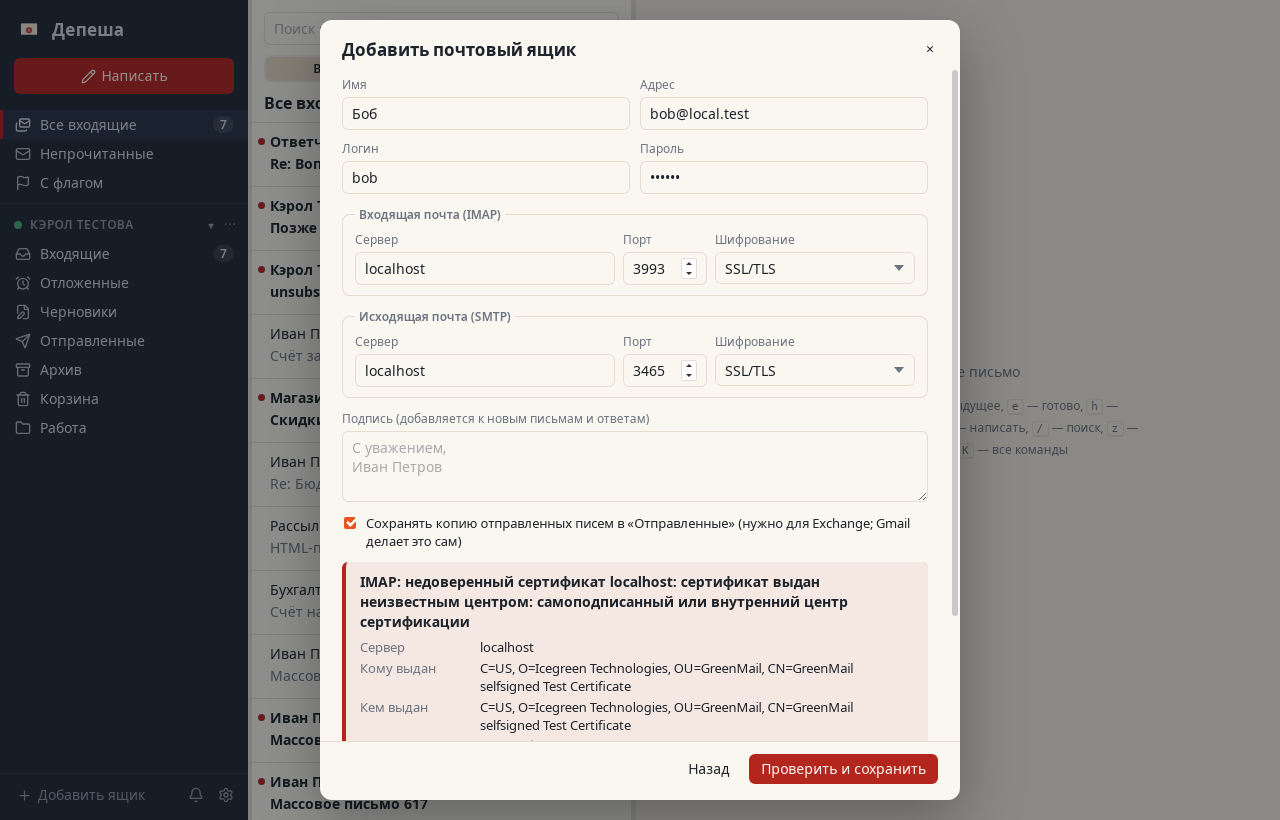
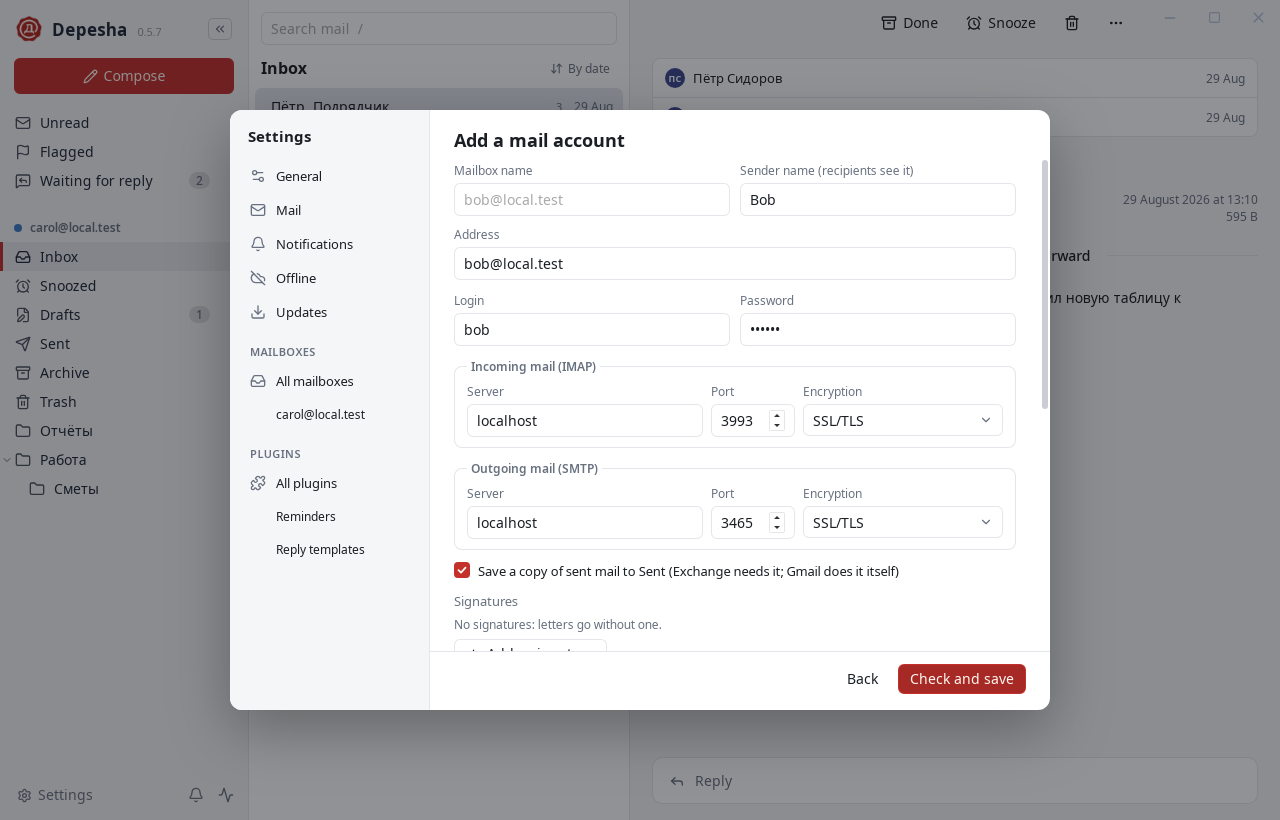
docs: скриншоты обновлены для 0.6.0
Старые кадры 0.4.0 заменены свежими: главное окно (main для русского README,
english для английского), редактор письма с оформлением и подписью, подписи в
настройках ящика, «Ждут ответа», узкое окно со списком и письмом, меню «Отложить»,
проверка перед отправкой, тёмная тема с перепиской и доверие сертификату по отпечатку.
Узкие кадры — окно 600×720, остальные 1280×820: ширина в README (860/420/300)
задаётся атрибутом, поэтому верстка не съезжает.

Closes #40

diff --git a/README.ru.md b/README.ru.md
@@ -32,8 +32,11 @@
 - **Порядок в ящике.** Раздел «Сервер» показывает, что умеет ваш IMAP-сервер и что из этого использует Депеша (IDLE, MOVE, CONDSTORE, QRESYNC, QUOTA и другое), с техническими подробностями для письма в поддержку. Раздел «Хранилище» — сколько места ящик занимает на сервере и на этом компьютере, с предупреждением у порога.
 - **Входящие бывают в Markdown.** Если отправитель прислал письмо в Markdown, его можно прочитать как Markdown, HTML или текст; свои письма тоже можно писать в Markdown.
 
-<p align="center"><img src="docs/screenshots/snooze.png" width="420" alt="Меню «Отложить»"> <img src="docs/screenshots/preflight.png" width="420" alt="Проверка перед отправкой"></p>
-<p align="center"><img src="docs/screenshots/dark.png" width="420" alt="Тёмная тема, переписка"> <img src="docs/screenshots/certificate.png" width="420" alt="Доверие сертификату по отпечатку"></p>
+<p align="center"><img src="docs/screenshots/compose.png" width="420" alt="Редактор письма: строка оформления и подпись"> <img src="docs/screenshots/signatures.png" width="420" alt="Подписи в настройках ящика"></p>
+<p align="center"><img src="docs/screenshots/followups.png" width="420" alt="«Ждут ответа»"> <img src="docs/screenshots/snooze.png" width="420" alt="Меню «Отложить»"></p>
+<p align="center"><img src="docs/screenshots/preflight.png" width="420" alt="Проверка перед отправкой"> <img src="docs/screenshots/dark.png" width="420" alt="Тёмная тема, переписка"></p>
+<p align="center"><img src="docs/screenshots/narrow-list.png" width="300" alt="Узкое окно: боковая полоса и список"> <img src="docs/screenshots/narrow-message.png" width="300" alt="Узкое окно: письмо"></p>
+<p align="center"><img src="docs/screenshots/certificate.png" width="420" alt="Доверие сертификату по отпечатку"></p>
 
 ## Плагины
 

diff --git a/README.md b/README.md
@@ -34,8 +34,11 @@ Built around what people actually do with mail (see [docs/ux.md](docs/ux.md) for
 - **What your mailbox is made of.** The "Server" section shows what your IMAP server can do and what Depesha uses of it (IDLE, MOVE, CONDSTORE, QRESYNC, QUOTA and more), with technical details to paste into a support ticket. "Storage" shows how much room the mailbox takes on the server and on this computer, with a warning near the limit.
 - **Markdown in and out.** A letter that arrives in Markdown can be read as Markdown, HTML or plain text, and your own letters can be written in Markdown too.
 
-<p align="center"><img src="docs/screenshots/snooze.png" width="420" alt="Snooze menu"> <img src="docs/screenshots/preflight.png" width="420" alt="Check before sending"></p>
-<p align="center"><img src="docs/screenshots/dark.png" width="420" alt="Dark theme, a conversation"> <img src="docs/screenshots/certificate.png" width="420" alt="Trusting a certificate by fingerprint"></p>
+<p align="center"><img src="docs/screenshots/compose.png" width="420" alt="The compose editor with the formatting bar and a signature"> <img src="docs/screenshots/signatures.png" width="420" alt="Signatures in the mailbox settings"></p>
+<p align="center"><img src="docs/screenshots/followups.png" width="420" alt="Waiting for reply"> <img src="docs/screenshots/snooze.png" width="420" alt="Snooze menu"></p>
+<p align="center"><img src="docs/screenshots/preflight.png" width="420" alt="Check before sending"> <img src="docs/screenshots/dark.png" width="420" alt="Dark theme, a conversation"></p>
+<p align="center"><img src="docs/screenshots/narrow-list.png" width="300" alt="A narrow window: the sidebar as a strip, the list"> <img src="docs/screenshots/narrow-message.png" width="300" alt="A narrow window: the letter"></p>
+<p align="center"><img src="docs/screenshots/certificate.png" width="420" alt="Trusting a certificate by fingerprint"></p>
 
 ## Plugins
 
